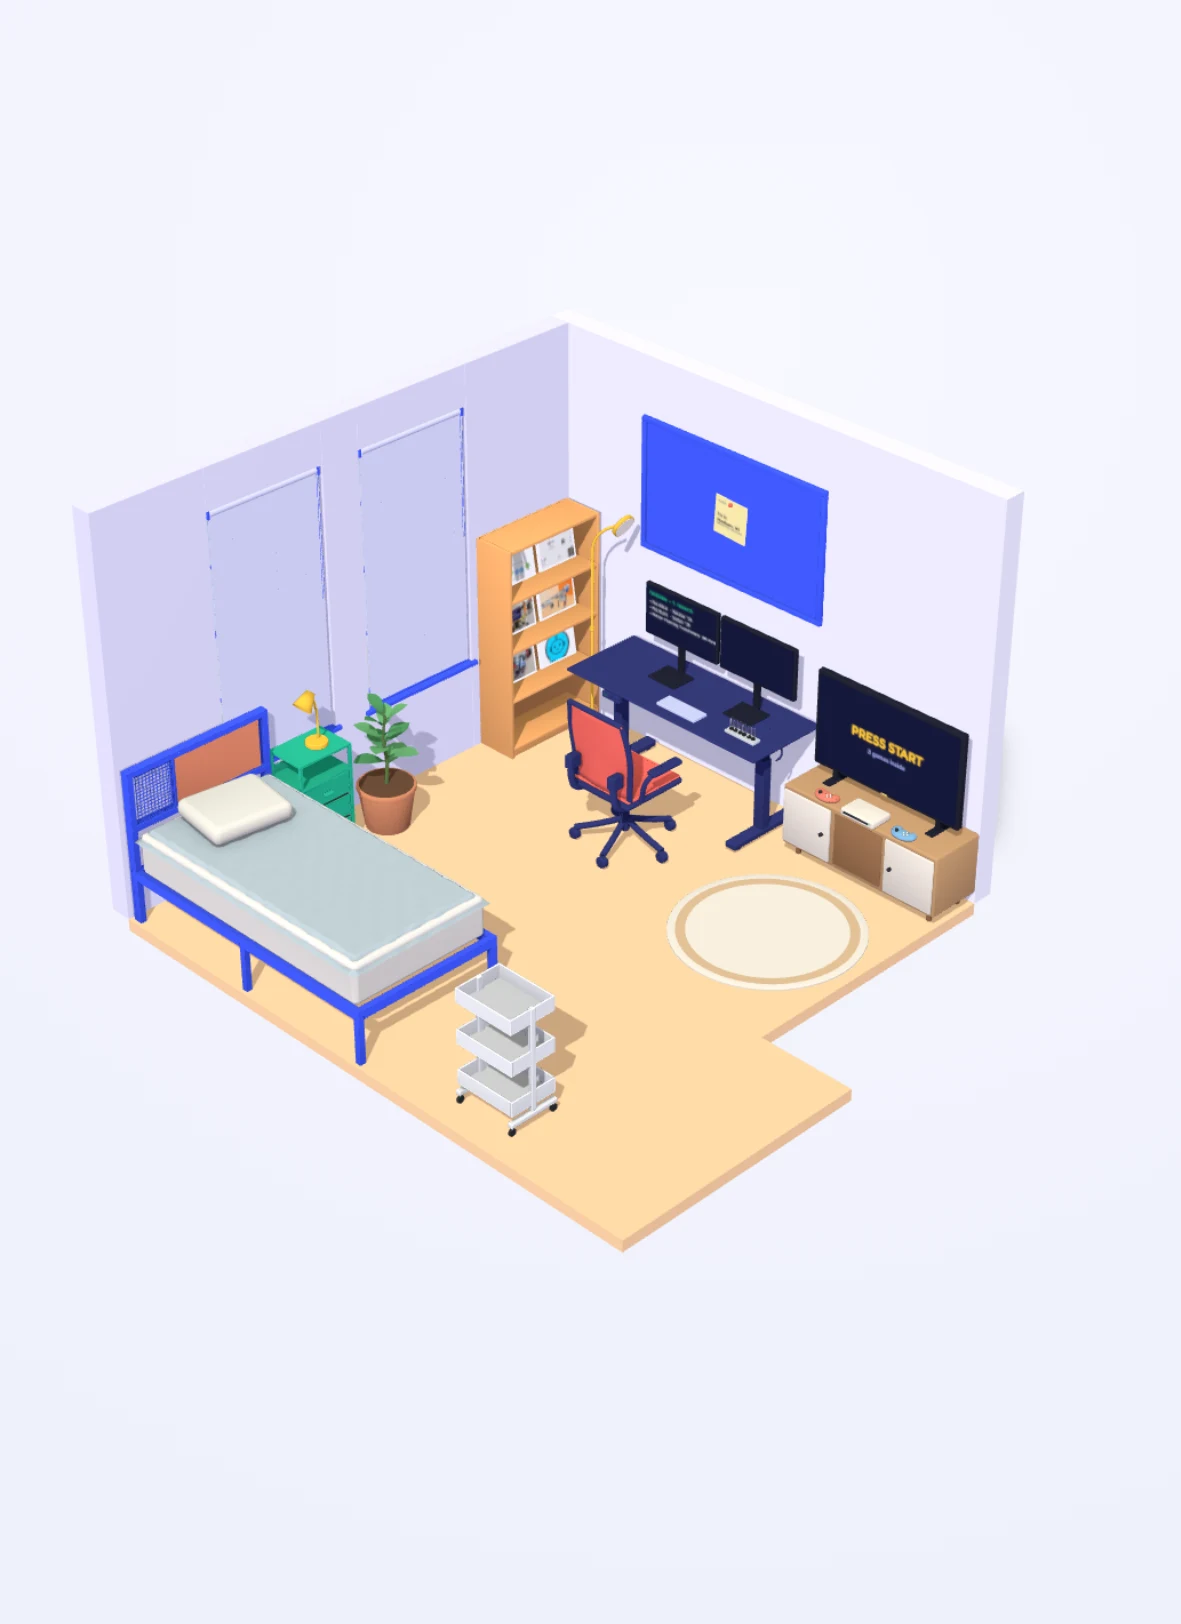
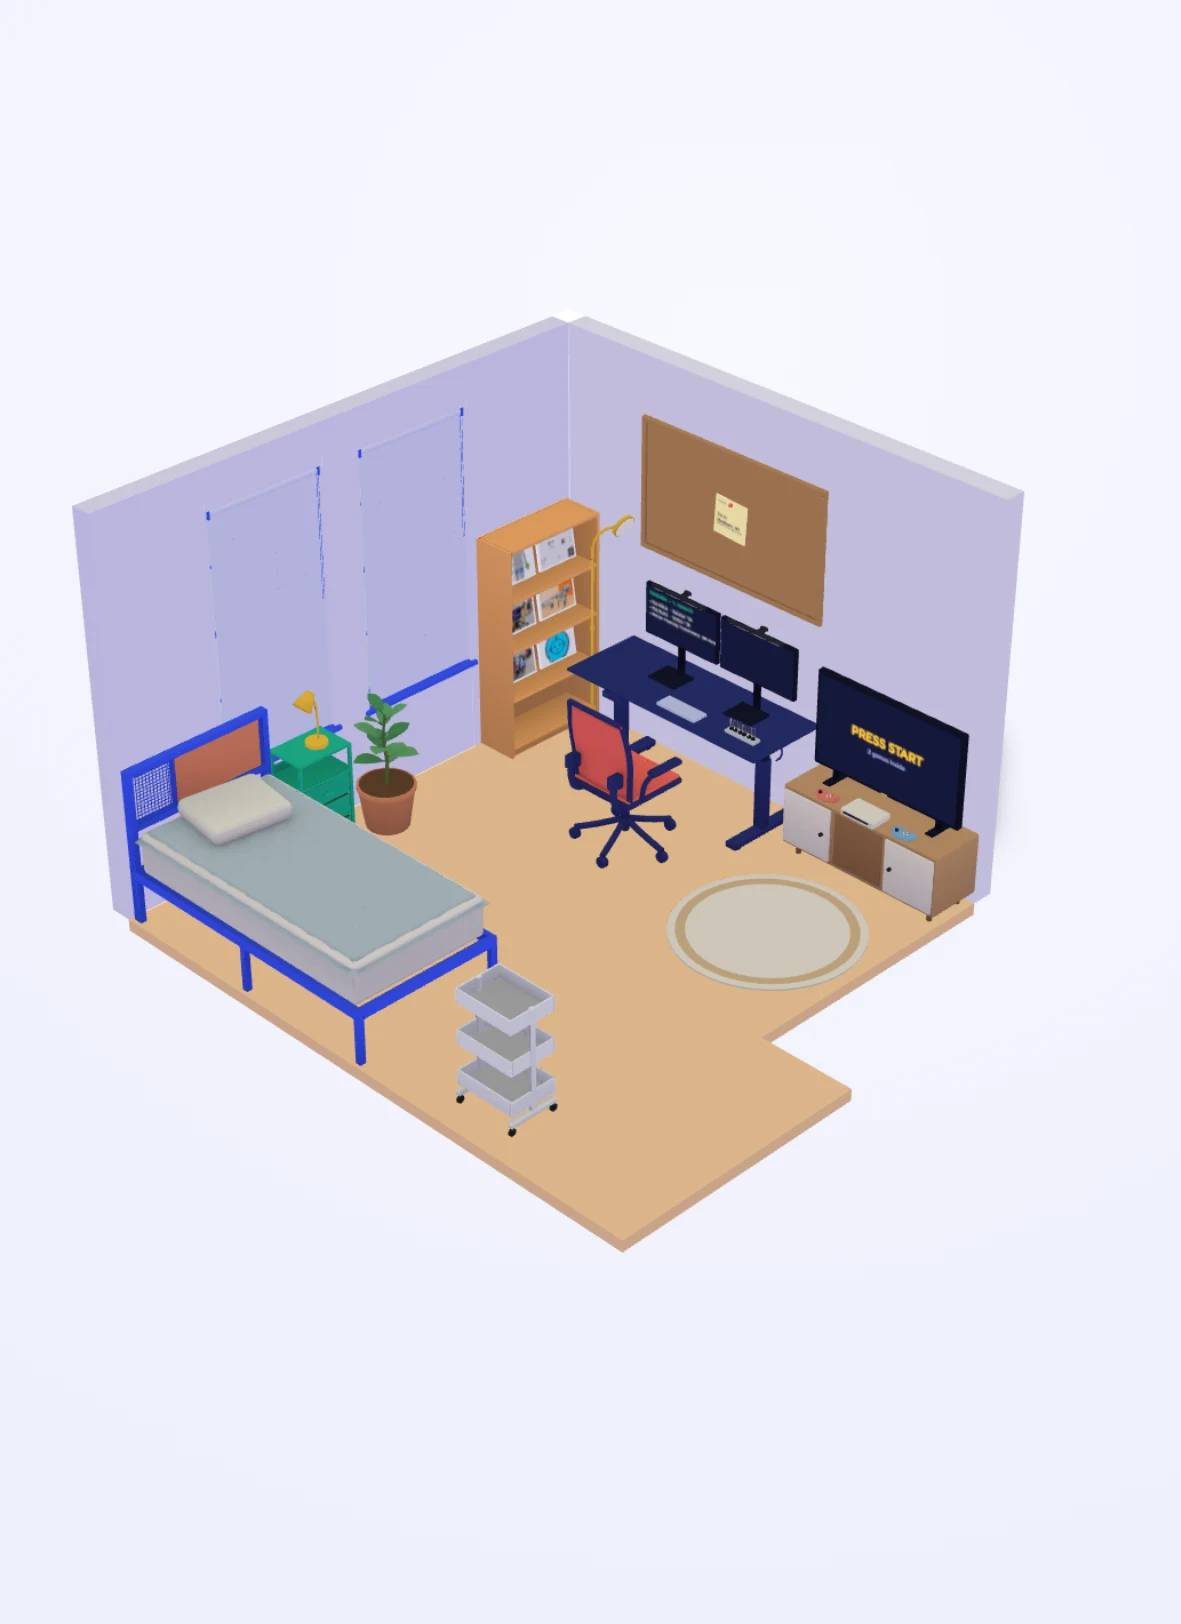
Room light only comes in through the windows; monitor light bars; cork pinboard
Walls hidden in the dollhouse view swap to a material that draws nothing but
still casts shadows, a shadow-only ceiling closes the top, and closed blinds
seal their windows, so sun and moon patches show only with a blind up. The
floor lamp and bedside lamp cast shadows. The white spot on the desk now comes
from two monitor light bars (new screenbar asset) that follow the theme.
The pinboard is cork brown, and the Playground lede is gone.

Changed region(s): [[0.061, 0.1847, 0.884, 0.7697]]

diff --git a/src/scripts/room.ts b/src/scripts/room.ts
@@ -9,11 +9,13 @@
 // breathing ambilight and the ticking clock redraw at ~30 fps while they're on).
 import {
   AdditiveBlending,
+  Box2,
   Box3,
   BoxGeometry,
   CanvasTexture,
   Color,
   DirectionalLight,
+  DoubleSide,
   ExtrudeGeometry,
   FrontSide,
   Group,
@@ -56,8 +58,8 @@ type Manifest = {
 const ASSETS = '/room/assets/';
 const INK = '#14183a';
 const LEVELS = {
-  light: { hemi: 1.9, sun: 2.4, screen: 0, tv: 0, emis: 0.12, night: 0 },
-  dark: { hemi: 0.62, sun: 0.4, screen: 1.6, tv: 1.8, emis: 1.2, night: 1 },
+  light: { hemi: 2.3, sun: 2.4, screen: 0, tv: 0, emis: 0.12, night: 0 },
+  dark: { hemi: 0.62, sun: 0.4, screen: 3.2, tv: 1.8, emis: 1.2, night: 1 },
 };
 /** Lights you can click on and off in the full-screen room, and each one's level when on. They all
  * come on with the dark theme and go off with the light one; a click flips one until the next switch. */
@@ -107,6 +109,17 @@ export async function mountRoom(frame: HTMLElement, opts: RoomOptions) {
   let active = opts.section in SHOTS ? opts.section : 'top';
   let item = document.documentElement.dataset.item ?? '';
 
+  // Walls that face the camera (and what hangs on them) aren't hidden: they swap to this material,
+  // which draws nothing but still casts shadows, so they keep blocking light. The ceiling wears it
+  // for good. Daylight and moonlight then only come in through the windows.
+  const ghostMat = new MeshBasicMaterial({ colorWrite: false, depthWrite: false });
+  ghostMat.shadowSide = DoubleSide;
+  const ghost = (o: Object3D, on: boolean) =>
+    o.traverse((c) => {
+      if (!(c instanceof Mesh) || !!c.userData.ghost === on) return;
+      if (on) [c.userData.ghost, c.material] = [c.material, ghostMat];
+      else [c.material, c.userData.ghost] = [c.userData.ghost, undefined];
+    });
   const hemi = new HemisphereLight(0xffffff, 0xd2ccff, LEVELS.light.hemi);
   const sun = new DirectionalLight(0xffffff, LEVELS.light.sun);
   sun.target.position.copy(center);
@@ -116,14 +129,23 @@ export async function mountRoom(frame: HTMLElement, opts: RoomOptions) {
   sun.shadow.normalBias = 0.02;
   Object.assign(sun.shadow.camera, { left: -5, right: 5, top: 5, bottom: -5, near: 1, far: 20 });
   // Night lights are spots, so lamp shades and screens light a cone instead of the whole room.
-  const spot = (color: number, angle: number, dist: number) => {
+  // `shadow` makes furniture block them (the bed for the bedside lamp, the desk for the floor lamp).
+  const spot = (color: number, angle: number, dist: number, shadow = false) => {
     const l = new SpotLight(color, 0, dist, angle, 0.7, 1.5);
+    if (shadow) {
+      l.castShadow = true;
+      l.shadow.mapSize.set(512, 512);
+      l.shadow.bias = -0.002;
+      l.shadow.normalBias = 0.02;
+      l.shadow.camera.near = 0.05;
+    }
     scene.add(l, l.target);
     return l;
   };
-  const lampL = spot(0xffc06a, 0.9, 5);
-  const bedL = spot(0xffa860, 0.95, 3);
-  const screenL = spot(0xb8d4ff, 1.0, 1.6);
+  const lampL = spot(0xffc06a, 0.9, 5, true);
+  const bedL = spot(0xffa860, 0.95, 3, true);
+  // One per monitor light bar (LIGHTS.screen).
+  const screenLs = LIGHTS.screen.map(() => spot(0xfff1dc, 0.65, 1.6, true));
   const tvL = spot(0x8fa0ff, 0.95, 2.6);
   // The ambilight's wash on the wall and stand behind the TV.
   const ambL = new PointLight(0xffffff, 0, 1.6, 1.5);
@@ -223,10 +245,12 @@ export async function mountRoom(frame: HTMLElement, opts: RoomOptions) {
     const holes = (w.openings ?? []).slice().sort((a, b) => a.span[0] - b.span[0]);
     const pieces: [number, number, number, number][] = [];
     let u = u0;
+    // The pieces under and over an opening reach 1 cm into their neighbours: shadows leak through
+    // seams where boxes only touch (thin lines of sun on the floor).
     for (const o of holes) {
       if (o.span[0] > u) pieces.push([u, o.span[0], 0, H]);
-      if (o.z[0] > 0) pieces.push([o.span[0], o.span[1], 0, o.z[0]]);
-      if (o.z[1] < H) pieces.push([o.span[0], o.span[1], o.z[1], H]);
+      if (o.z[0] > 0) pieces.push([o.span[0] - 0.01, o.span[1] + 0.01, 0, o.z[0]]);
+      if (o.z[1] < H) pieces.push([o.span[0] - 0.01, o.span[1] + 0.01, o.z[1], H]);
       u = o.span[1];
     }
     if (u < u1) pieces.push([u, u1, 0, H]);
@@ -235,7 +259,7 @@ export async function mountRoom(frame: HTMLElement, opts: RoomOptions) {
       const len = b - a, mid = (a + b) / 2, off = line - (alongX ? n.y : n.x) * (T / 2);
       const m = new Mesh(alongX ? new BoxGeometry(len, z1 - z0, T) : new BoxGeometry(T, z1 - z0, len), mat);
       m.position.copy(alongX ? P(mid, off, (z0 + z1) / 2) : P(off, mid, (z0 + z1) / 2));
-      m.receiveShadow = true;
+      m.castShadow = m.receiveShadow = true;
       scene.add(m);
       return m;
     });
@@ -249,9 +273,25 @@ export async function mountRoom(frame: HTMLElement, opts: RoomOptions) {
     const out = inward[w.side].clone().add(inward[SHELL.walls[j].side]).multiplyScalar(-T / 2);
     const m = new Mesh(new BoxGeometry(T, H, T), (wallSets[i].objs[0] as Mesh).material);
     m.position.copy(P(w.to[0] + out.x, w.to[1] + out.y, H / 2));
+    m.castShadow = true;
     scene.add(m);
     posts.push({ a: i, b: j, m });
+    // The post only touches its walls, and sun leaks through those seams; a slightly bigger
+    // shadow-only column seals them.
+    const seal = new Mesh(new BoxGeometry(T + 0.04, H, T + 0.04), ghostMat);
+    seal.position.copy(m.position);
+    seal.castShadow = true;
+    seal.raycast = () => {};
+    scene.add(seal);
   });
+  // A ceiling that only casts shadows (the dollhouse view never shows it). It sinks 10 cm into the
+  // wall tops: where boxes only touch, light leaks through the seam.
+  const ceilBox = SHELL.outline.reduce((b, [x, y]) => b.expandByPoint(new Vector2(x, y)), new Box2()).expandByScalar(T);
+  const ceiling = new Mesh(new BoxGeometry(ceilBox.max.x - ceilBox.min.x, 0.15, ceilBox.max.y - ceilBox.min.y), ghostMat);
+  ceiling.position.copy(P((ceilBox.min.x + ceilBox.max.x) / 2, (ceilBox.min.y + ceilBox.max.y) / 2, H - 0.025));
+  ceiling.castShadow = true;
+  ceiling.raycast = () => {};
+  scene.add(ceiling);
 
   // --- furniture
   const placed: Record<string, Object3D> = {};
@@ -278,6 +318,7 @@ export async function mountRoom(frame: HTMLElement, opts: RoomOptions) {
     placed[p.id] = g;
   }
   scene.updateMatrixWorld(true);
+  for (const p of PLACEMENTS) if (p.on && placed[p.id] && placed[p.on]) placed[p.on].attach(placed[p.id]);
 
   // Sky outside the windows: a day and a night painting on planes behind each window, cross-faded
   // with the lights. They hang on the window, so they hide with its wall.
@@ -355,7 +396,23 @@ export async function mountRoom(frame: HTMLElement, opts: RoomOptions) {
     const cloth = win?.getObjectByName('blind_cloth');
     if (!win || !cloth) continue;
     const bar = win.getObjectByName('blind_bar') ?? undefined;
+    // The cloth stops short of the frame (sides and bottom), so a closed blind leaks thin lines of
+    // sun. A shadow-only panel a little bigger than the cloth rolls with it and seals the window.
     const b = new Box3().setFromObject(cloth);
+    const lb = new Box3();
+    cloth.children.forEach((c) => {
+      if (!(c instanceof Mesh)) return;
+      c.geometry.computeBoundingBox();
+      lb.union(c.geometry.boundingBox!.clone().applyMatrix4(c.matrix));
+    });
+    if (!lb.isEmpty()) {
+      const size = lb.getSize(new Vector3()).add(new Vector3(0.08, 0.1, 0.08));
+      const seal = new Mesh(new BoxGeometry(size.x, size.y, size.z), ghostMat);
+      seal.position.copy(lb.getCenter(new Vector3())).add(new Vector3(0, -0.05, 0));
+      seal.castShadow = true;
+      seal.raycast = () => {};
+      cloth.add(seal);
+    }
     blinds.push({ win, cloth, bar, len: (b.max.y - b.min.y) / win.scale.y, barY: bar?.position.y ?? 0, k: 1, t: 1 });
   }
   const blindOf = (o: Object3D | null) => {
@@ -395,14 +452,14 @@ export async function mountRoom(frame: HTMLElement, opts: RoomOptions) {
   };
   aimLamp(lampL, LIGHTS.lamp);
   aimLamp(bedL, LIGHTS.bedside);
-  // Screens wash the desk (and the floor in front of the TV) from the screen itself, angled down.
+  LIGHTS.screen.forEach((id, i) => aimLamp(screenLs[i], id));
+  // The TV washes the floor in front of it from the screen itself, angled down.
   const aimScreen = (l: SpotLight, ids: string[]) => {
     const b = bounds(ids), at = b.getCenter(new Vector3());
     const front = new Vector3(0, 0, 1).applyQuaternion(placed[ids[0]].quaternion);
     l.position.copy(at).addScaledVector(front, 0.08);
     l.target.position.copy(at).addScaledVector(front, 1).add(new Vector3(0, -0.9, 0));
   };
-  aimScreen(screenL, LIGHTS.screen);
   aimScreen(tvL, [LIGHTS.tv]);
 
   // --- small animations: objects that pop out when their page item is in view
@@ -1144,7 +1201,8 @@ export async function mountRoom(frame: HTMLElement, opts: RoomOptions) {
     fading = true;
     hemi.color.set(t === 'dark' ? 0x7d84ff : 0xffffff);
     sun.color.set(t === 'dark' ? 0x9fb2ff : 0xffffff);
-    sun.position.copy(t === 'dark' ? center.clone().add(new Vector3(-6, 3.65, 1)) : center.clone().add(new Vector3(3.5, 6.15, 5.5)));
+    // Both come in through the west windows (the only way in); the sun a little higher than the moon.
+    sun.position.copy(center.clone().add(t === 'dark' ? new Vector3(-6, 3.65, 1) : new Vector3(-5.5, 4.2, 2)));
     if (opts.reduceMotion) {
       cur = { ...target };
       fading = false;
@@ -1222,7 +1280,7 @@ export async function mountRoom(frame: HTMLElement, opts: RoomOptions) {
   // Click an object in full mode → navigate to its section.
   const ray = new Raycaster(), ndc = new Vector2();
   const shown = (o: Object3D | null) => {
-    for (; o; o = o.parent) if (!o.visible) return false;
+    for (; o; o = o.parent) if (!o.visible || o.userData.ghost) return false;
     return true;
   };
   const hitAt = (e: PointerEvent) => {
@@ -1234,7 +1292,8 @@ export async function mountRoom(frame: HTMLElement, opts: RoomOptions) {
 
   // Hover bounce: interactive objects (placements with a section) spring up a little under the
   // pointer, with a bit of overshoot, and spring back when it leaves.
-  const placedSet = new Set(Object.values(placed));
+  // Riders (a light bar on its monitor) count as part of what they ride on.
+  const placedSet = new Set(PLACEMENTS.filter((p) => !p.on && placed[p.id]).map((p) => placed[p.id]));
   // Only the objects that bounce are clickable; big furniture (desk, TV stand, rug, door) is scenery.
   const interactiveOf = (o: Object3D | null) => {
     for (; o; o = o.parent) if (placedSet.has(o)) return o.userData.section && o.userData.bounce ? o : undefined;
@@ -1377,7 +1436,7 @@ export async function mountRoom(frame: HTMLElement, opts: RoomOptions) {
     hemi.intensity = cur.hemi;
     sun.intensity = cur.sun;
     lampL.intensity = cur.lamp;
-    screenL.intensity = cur.screen;
+    screenLs.forEach((l) => (l.intensity = cur.screen));
     bedL.intensity = cur.bed;
     tvL.intensity = cur.tv;
     for (const m of glows) m.emissiveIntensity = cur.emis * 1.2;
@@ -1394,9 +1453,9 @@ export async function mountRoom(frame: HTMLElement, opts: RoomOptions) {
     v.copy(cam.position).sub(full ? controls.target : camT);
     vp.set(v.x, -v.z);
     const wallOn = wallSets.map((w) => vp.dot(w.n) > -0.4 && (!w.also || vp.dot(w.also) > -0.4));
-    wallSets.forEach((w, i) => w.objs.forEach((o) => (o.visible = wallOn[i])));
-    posts.forEach((p) => (p.m.visible = wallOn[p.a] && wallOn[p.b]));
-    onWall.forEach((w) => (w.o.visible = vp.dot(w.n) > -0.4));
+    wallSets.forEach((w, i) => w.objs.forEach((o) => ghost(o, !wallOn[i])));
+    posts.forEach((p) => ghost(p.m, !(wallOn[p.a] && wallOn[p.b])));
+    onWall.forEach((w) => ghost(w.o, vp.dot(w.n) <= -0.4));
     renderer.render(scene, cam);
     if (full) {
       const w = canvas.clientWidth, h = canvas.clientHeight;

diff --git a/src/scripts/room.config.ts b/src/scripts/room.config.ts
@@ -24,6 +24,8 @@ export interface Placement {
   section?: string;
   /** `false`: big furniture that neither bounces on hover nor takes a click (it's scenery). */
   bounce?: boolean;
+  /** Rides on another placement (moves when it bounces), e.g. a light bar on its monitor. */
+  on?: string;
   /** Set for things in or against a wall (doors, windows): they hide with that wall in the dollhouse view. */
   wall?: Wall['side'];
   /** `false` turns the baked ambient occlusion off (the blinds sit in a niche and bake too dark). */
@@ -95,11 +97,14 @@ export const PLACEMENTS: Placement[] = [
   { id: 'desk', bounce: false, asset: 'desk', at: [1.42, 3.354], colors: { wood: NAVY, frame: NAVY, metal: NAVY }, section: 'research' },
   { id: 'monitorL', asset: 'monitor', at: [1.18, 3.441], z: 0.74, colors: { frame: BEZEL }, section: 'research' },
   { id: 'monitorR', asset: 'monitor', at: [1.82, 3.441], z: 0.74, colors: { frame: BEZEL }, section: 'research' },
+  // Light bars on the monitors' top edges (panel 54.3 cm up, its middle 8.7 cm behind the stand).
+  { id: 'barL', asset: 'screenbar', at: [1.18, 3.528], z: 1.2826, on: 'monitorL' },
+  { id: 'barR', asset: 'screenbar', at: [1.82, 3.528], z: 1.2826, on: 'monitorR' },
   { id: 'keyboard', asset: 'keyboard', at: [1.5, 3.19], z: 0.74, colors: { metal: '#c8cdf0' } },
   { id: 'chair', asset: 'chair', at: [1.506, 2.7], yaw: 180, colors: { fabric: '#ff6b5e', frame: NAVY } },
   // Nixie clock (Madison time): the monitors leave no gap between them, so it stands right of the keyboard.
   { id: 'clock', asset: 'nixie', at: [1.98, 3.22], z: 0.74 },
-  { id: 'pinboard', asset: 'pinboard', at: [1.42, 3.7], z: 1.4, colors: { wood: BLUE }, section: 'playground' },
+  { id: 'pinboard', asset: 'pinboard', at: [1.42, 3.7], z: 1.4, colors: { wood: '#c4925e' }, section: 'playground' },
   { id: 'tvstand', bounce: false, asset: 'tvstand', at: [2.86, 3.481], section: 'games' },
   { id: 'tv', asset: 'tv', at: [2.86, 3.55], z: 0.5, colors: { frame: BEZEL }, section: 'games' },
   { id: 'console', asset: 'console', at: [2.86, 3.355], z: 0.5, section: 'games' },
@@ -145,9 +150,10 @@ export const LABELS: [section: string, title: string, anchor: string][] = [
   ['playground', 'Playground', 'pinboard'],
 ];
 
-/** Night lights sit at these placements (the lamp heads and the screens); the TV also has an
- * ambilight behind it. The lamps, the ambilight and the clock switch on and off with a click. */
-export const LIGHTS = { lamp: 'lamp', bedside: 'bedLamp', screen: ['monitorL', 'monitorR'], tv: 'tv', ambilight: 'tv', clock: 'clock' };
+/** Night lights sit at these placements (the lamp heads, the monitor light bars, the TV); the TV
+ * also has an ambilight behind it. The lamps, the ambilight and the clock switch on and off with a
+ * click; the light bars just follow the theme. */
+export const LIGHTS = { lamp: 'lamp', bedside: 'bedLamp', screen: ['barL', 'barR'], tv: 'tv', ambilight: 'tv', clock: 'clock' };
 
 /** Things that move on their own: the plant's leaves sway when the view turns. */
 export const DECOR = { plant: 'plant' };
@@ -161,6 +167,8 @@ export const DECOR = { plant: 'plant' };
 export const LAMP_AIM: Record<string, [x: number, y: number, z: number]> = {
   lamp: [0, -0.914, -0.406],
   desklamp: [0.8, 0, -0.6],
+  // The light bar's strip lights the desk in front of the monitor.
+  screenbar: [0, -0.32, -0.95],
 };
 
 /** Windows get a sky outside (day/night) and a blind you can click to roll up or down. */
